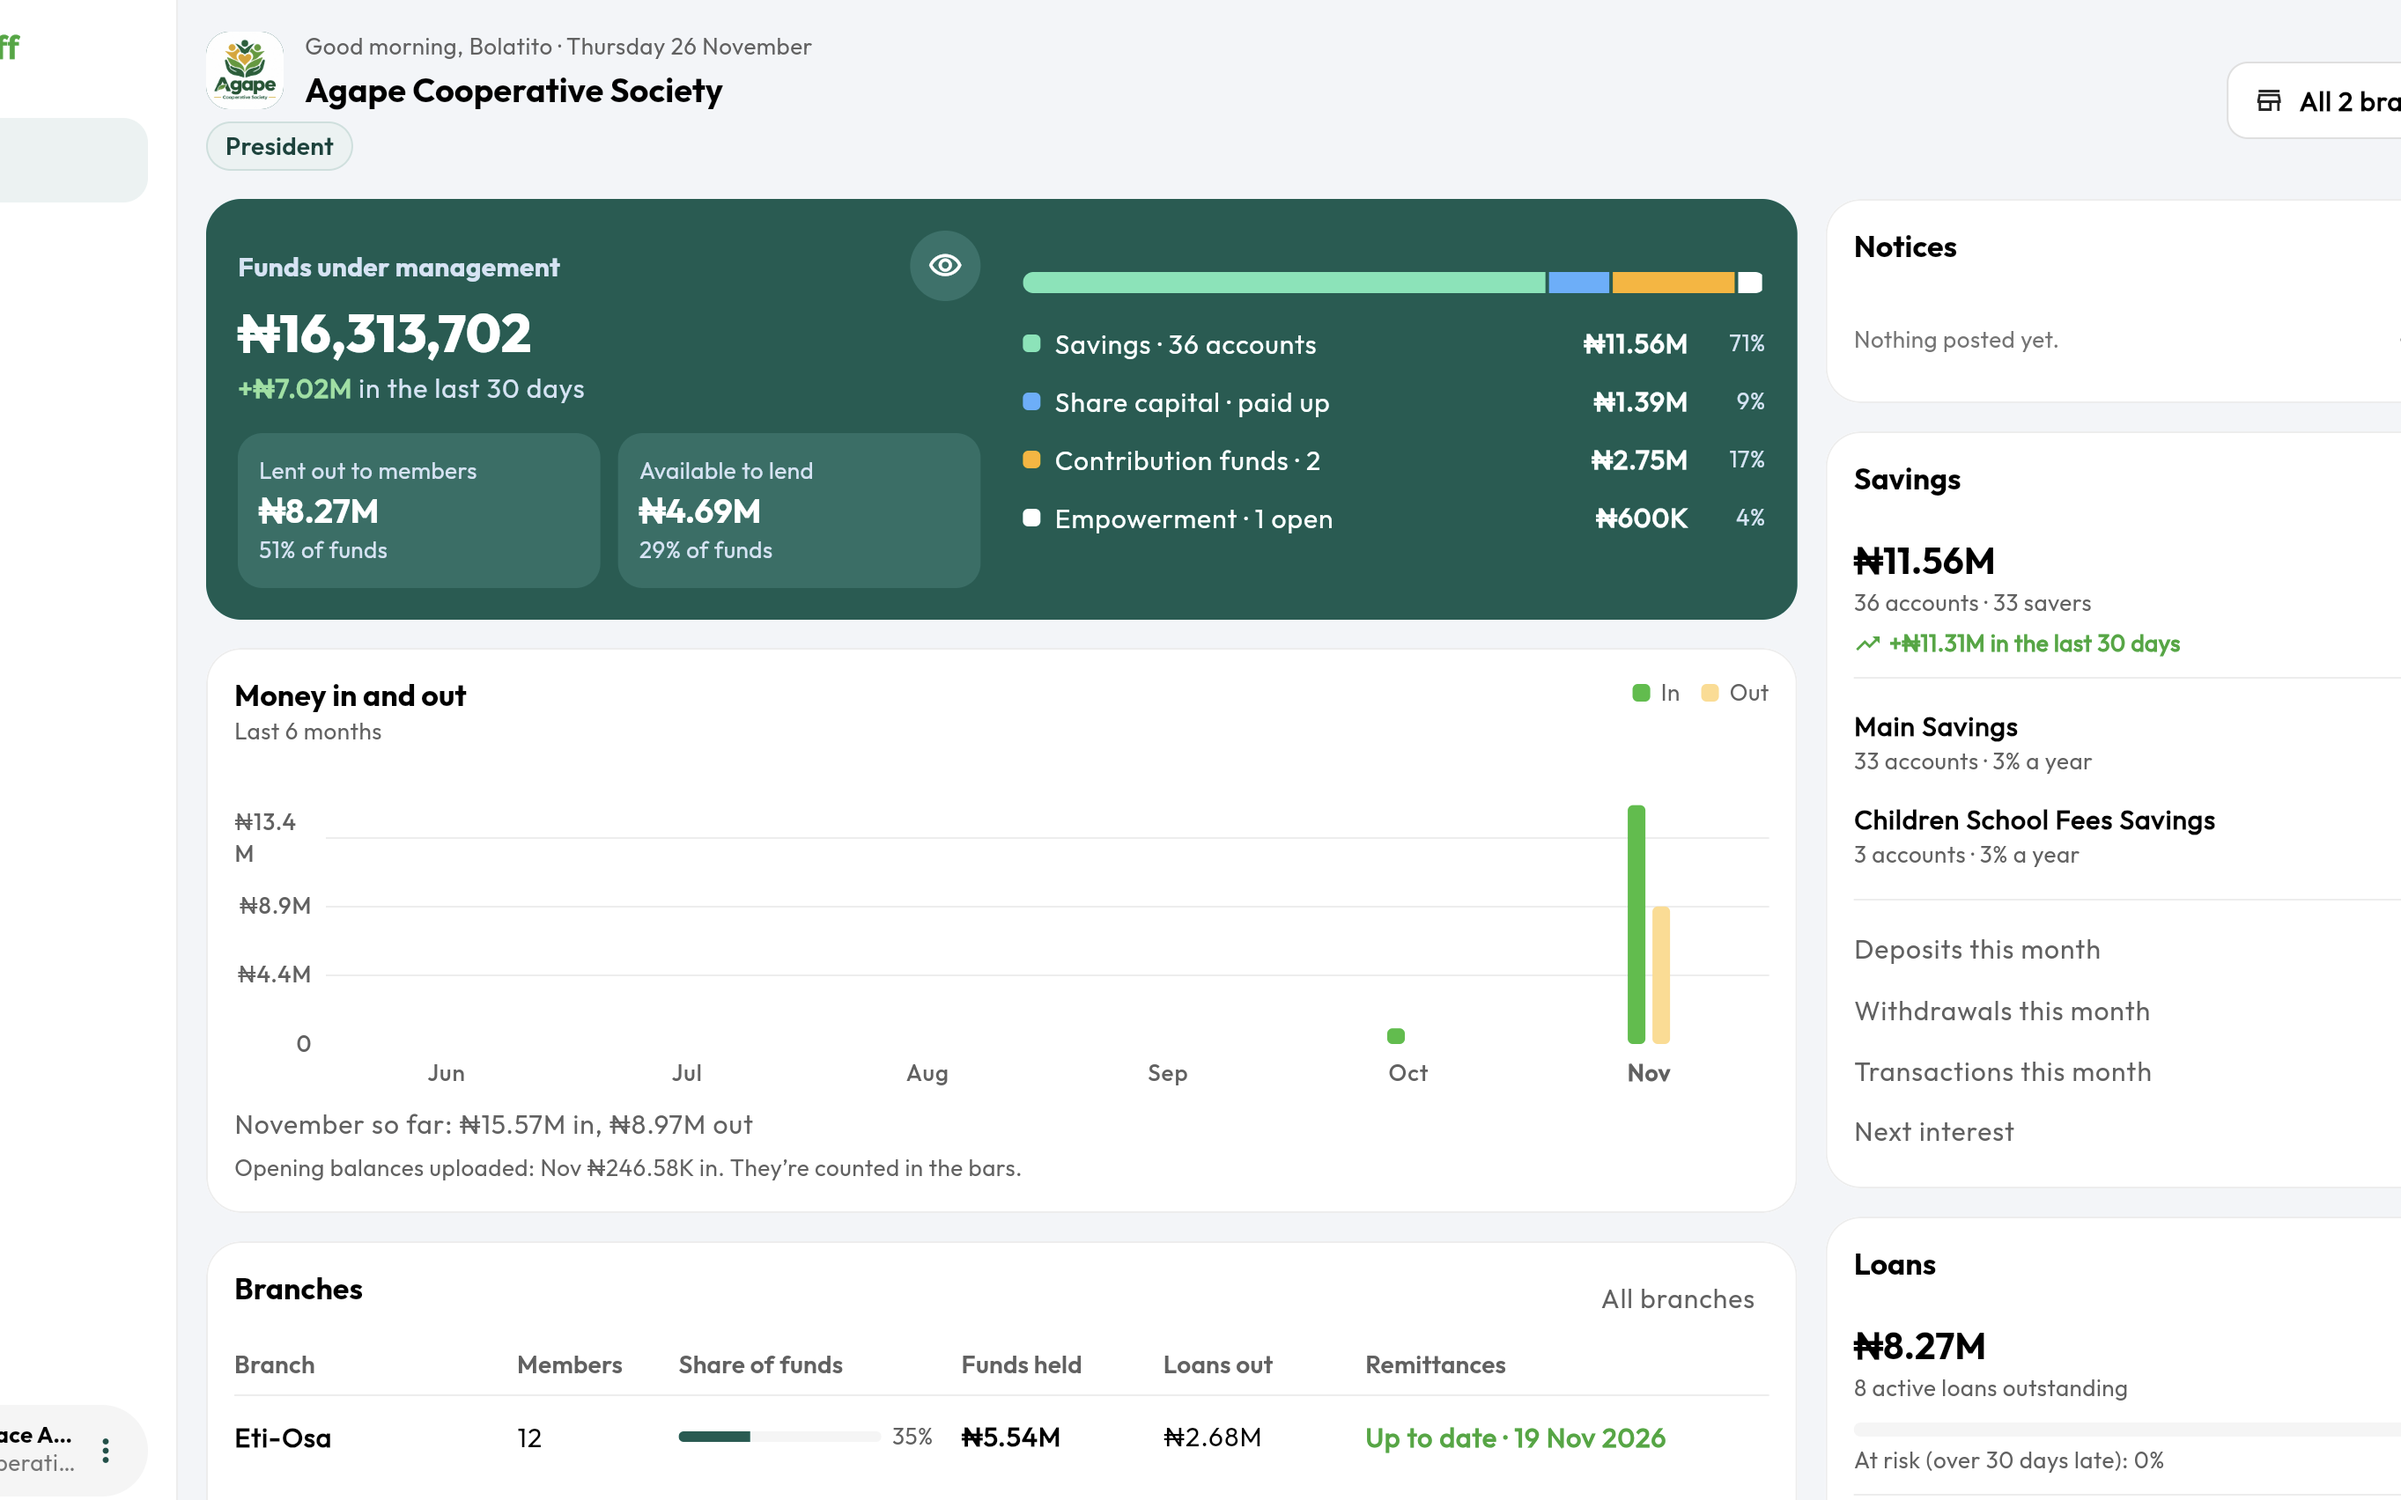
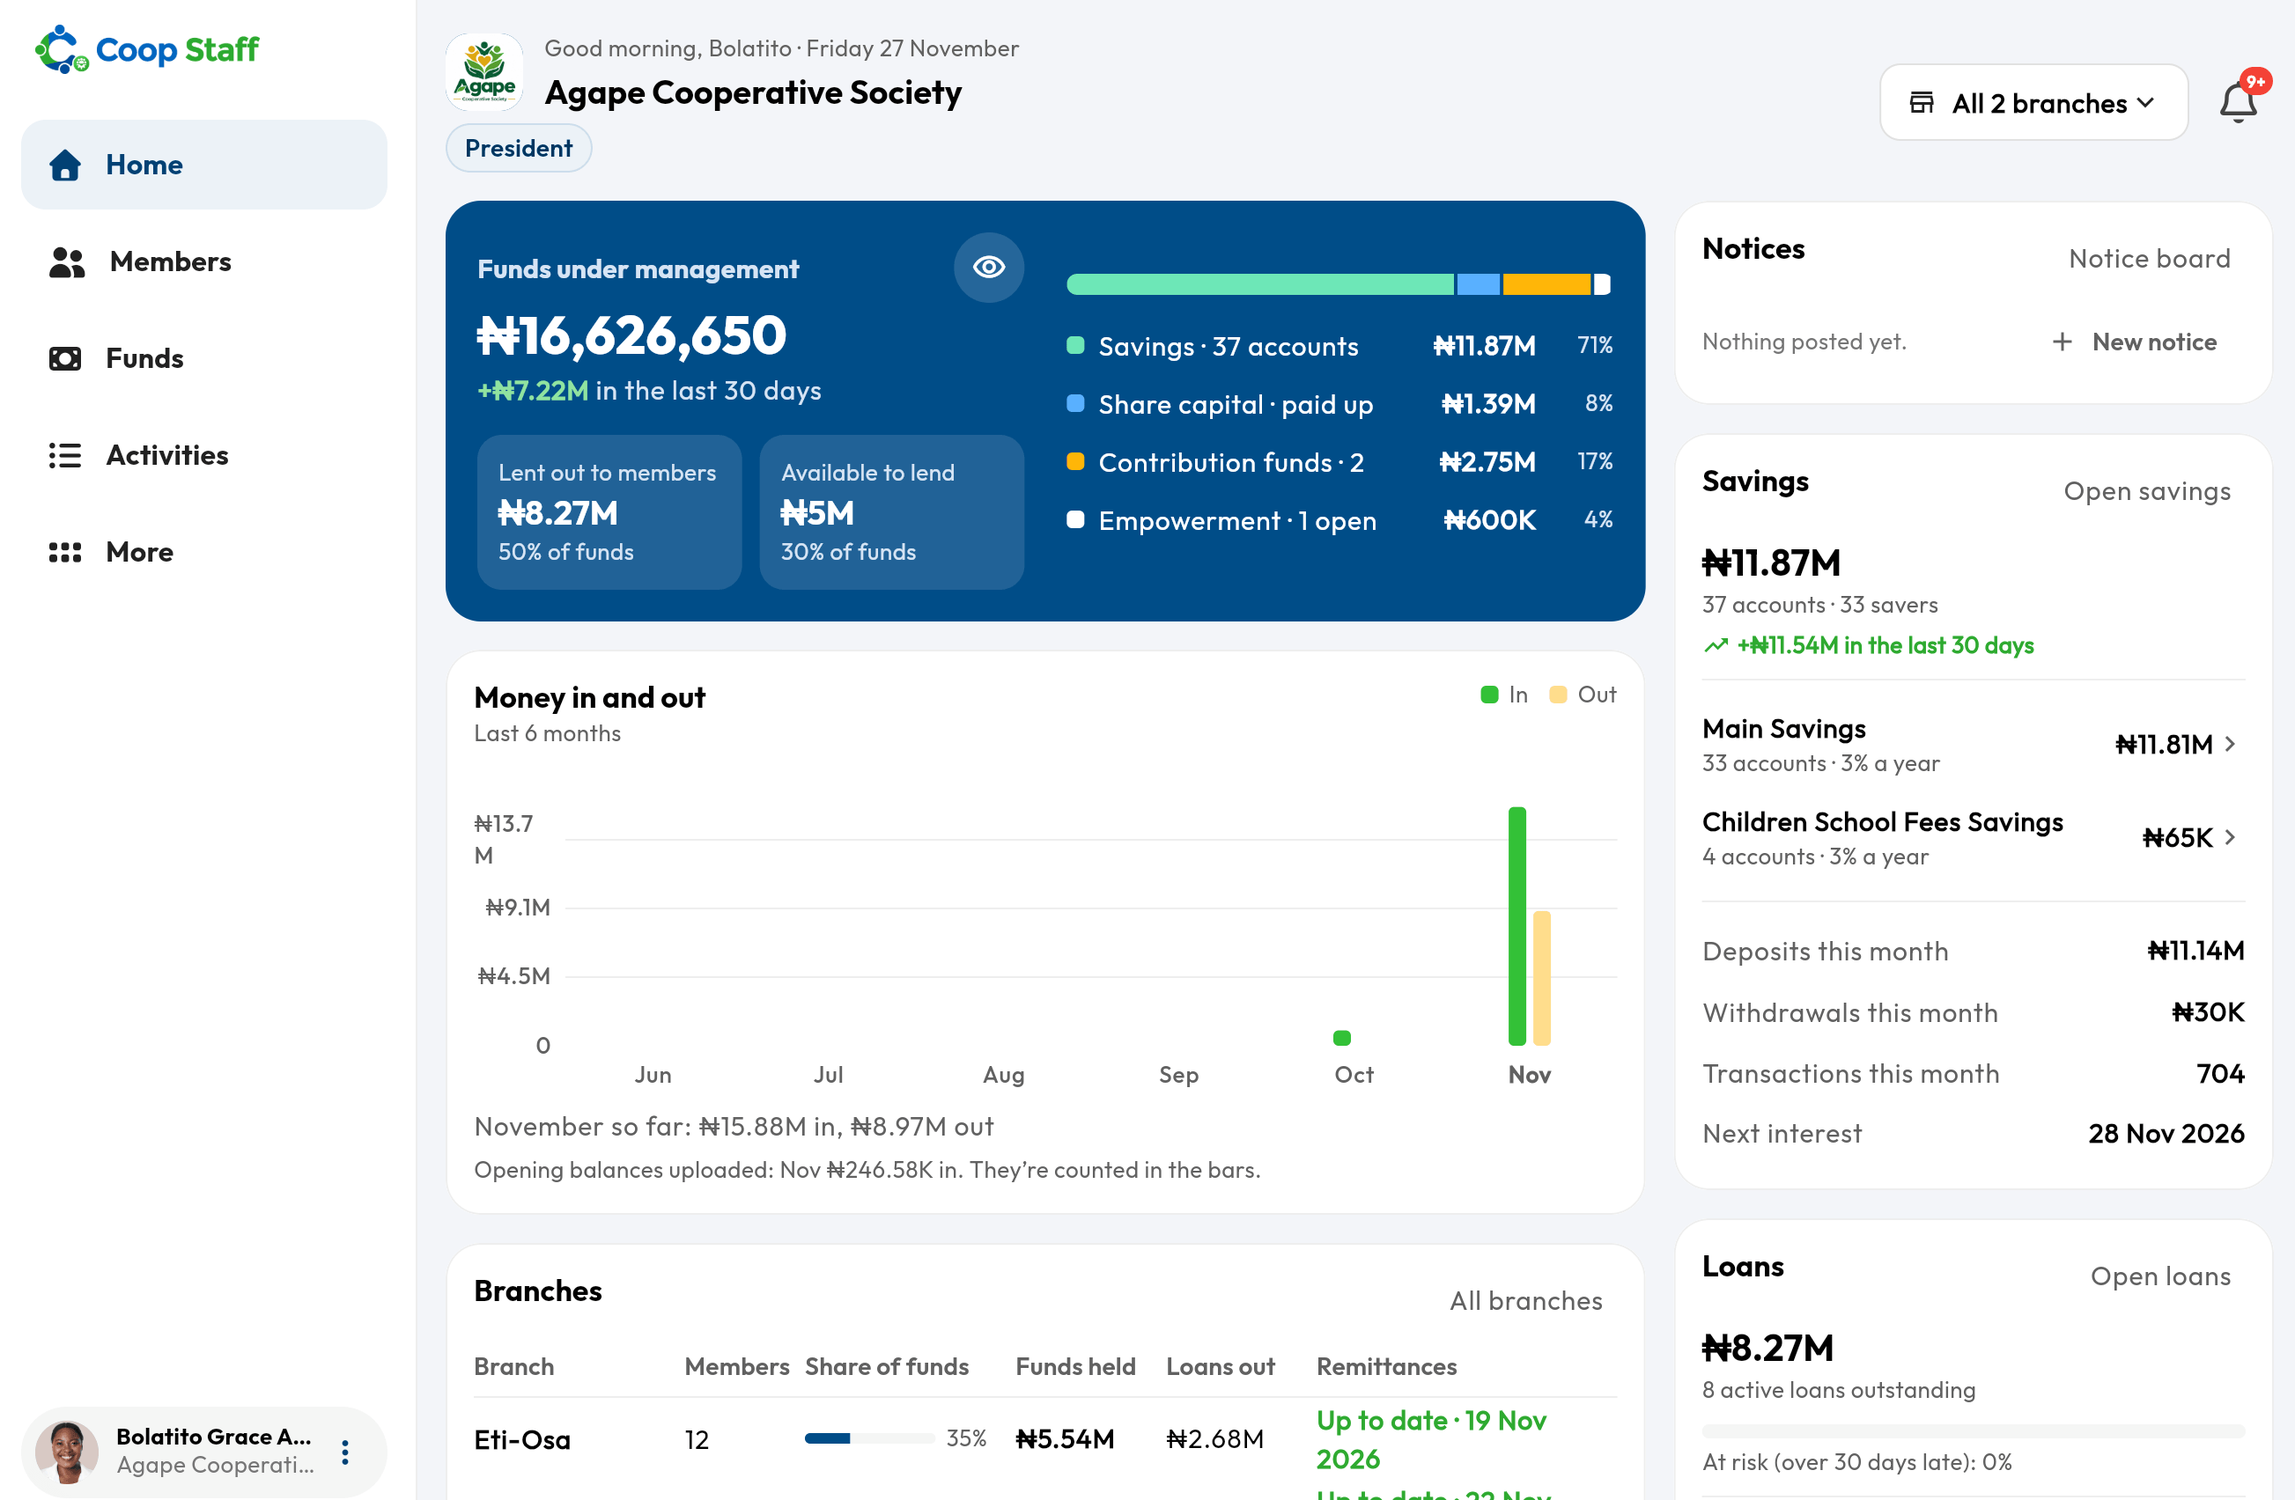
modified:   .DS_Store 	modified:   README.md 	modified:   functions/api/contact.js 	modified:   package-lock.json 	modified:   package.json 	modified:   src/_includes/partials/header.njk 	modified:   src/_includes/partials/visuals.njk 	modified:   src/assets/img/hero/member-home-phone.png 	new file:

diff --git a/functions/api/contact.js b/functions/api/contact.js
@@ -1,16 +1,22 @@
 // POST /api/contact — the website's contact form (Cloudflare Pages Function).
 //
-// Checks the fields and the Turnstile token, then emails the message with
-// Resend to CONTACT_TO, with Reply-To set to the sender. Nothing is stored.
+// Checks the fields and the Turnstile token, then sends the message with
+// Amazon SES (API v2, SendEmail with Simple content) to CONTACT_TO, BCCs the
+// two addresses below, and sets Reply-To to the sender. Nothing is stored.
 //
 // Environment (Cloudflare Pages → Settings → Variables and secrets):
-//   RESEND_API_KEY        secret; Resend API key
-//   CONTACT_TO            the inbox that receives messages
-//   CONTACT_FROM          a sender on a domain verified in Resend,
-//                         e.g. "CoopCircle website <website@coopcirclehq.com>"
-//   TURNSTILE_SECRET_KEY  secret; when set, a valid Turnstile token is required
-//
-// (Resend for now; Amazon SES later — see the app's docs/11 → Deferred work.)
+//   AWS_SES_ACCESS_KEY_ID      secret; IAM user allowed only ses:SendEmail
+//   AWS_SES_SECRET_ACCESS_KEY  secret; that user's access key
+//   AWS_SES_REGION             region of the verified coopcirclehq.com identity
+//   SES_CONFIGURATION_SET      optional; for bounce and complaint tracking
+//   CONTACT_TO                 the inbox that receives messages
+//   CONTACT_FROM               e.g. "CoopCircle website <website@coopcirclehq.com>"
+//   TURNSTILE_SECRET_KEY       secret; when set, a valid Turnstile token is required
+
+import { AwsClient } from "aws4fetch";
+
+// The addresses that also get a copy, without being shown to other recipients.
+const CONTACT_BCC = ["babatundeaniyi@gmail.com", "coopcirclesoftware@gmail.com"];
 
 const TOPICS = {
   demo: "Book a demo",
@@ -67,7 +73,11 @@ export async function onRequestPost({ request, env }) {
     if (!passed) return reply(403, "Please complete the check that you’re not a robot, then send again.");
   }
 
-  if (!env.RESEND_API_KEY || !env.CONTACT_TO || !env.CONTACT_FROM) {
+  // Without SES set up, the form stays honest and asks people to email us.
+  if (
+    !env.AWS_SES_ACCESS_KEY_ID || !env.AWS_SES_SECRET_ACCESS_KEY || !env.AWS_SES_REGION ||
+    !env.CONTACT_TO || !env.CONTACT_FROM
+  ) {
     return reply(503, "Our contact form isn’t working right now. Please email us instead.");
   }
 
@@ -126,23 +136,51 @@ async function turnstileOk(secret, token, request) {
   }
 }
 
+/**
+ * Sends one message through SES v2. Simple content is enough here: there are
+ * no attachments, and SES turns the UTF-8 subject and text into the email.
+ * Returns true only when SES accepts the message.
+ */
 async function sendEmail(env, f) {
+  const region = env.AWS_SES_REGION;
+
+  // A fresh client per request; retries are off so a slow failure can't
+  // deliver the same contact message twice.
+  const ses = new AwsClient({
+    accessKeyId: env.AWS_SES_ACCESS_KEY_ID,
+    secretAccessKey: env.AWS_SES_SECRET_ACCESS_KEY,
+    region,
+    service: "ses",
+    retries: 0,
+  });
+
+  const payload = {
+    FromEmailAddress: env.CONTACT_FROM,
+    Destination: { ToAddresses: [env.CONTACT_TO], BccAddresses: CONTACT_BCC },
+    ReplyToAddresses: [f.email], // clean() has already flattened any line breaks.
+    Content: {
+      Simple: {
+        Subject: {
+          Data: `${TOPICS[f.topic]}: ${f.name}${f.society ? ` (${f.society})` : ""}`.slice(0, 200),
+          Charset: "UTF-8",
+        },
+        Body: { Text: { Data: emailText(f), Charset: "UTF-8" } },
+      },
+    },
+  };
+  // Optional SES configuration set, used for bounce and complaint tracking.
+  if (env.SES_CONFIGURATION_SET) payload.ConfigurationSetName = env.SES_CONFIGURATION_SET;
+
   try {
-    const res = await fetch("https://api.resend.com/emails", {
+    const res = await ses.fetch(`https://email.${region}.amazonaws.com/v2/email/outbound-emails`, {
       method: "POST",
-      headers: { Authorization: `Bearer ${env.RESEND_API_KEY}`, "Content-Type": "application/json" },
-      body: JSON.stringify({
-        from: env.CONTACT_FROM,
-        to: [env.CONTACT_TO],
-        reply_to: f.email,
-        subject: `${TOPICS[f.topic]}: ${f.name}${f.society ? ` (${f.society})` : ""}`.slice(0, 200),
-        text: emailText(f),
-      }),
+      headers: { "content-type": "application/json; charset=utf-8" },
+      body: JSON.stringify(payload),
     });
-    if (!res.ok) console.error("contact: Resend answered", res.status);
+    if (!res.ok) console.error("contact: SES answered", res.status);
     return res.ok;
   } catch (e) {
-    console.error("contact: Resend failed", e && e.name);
+    console.error("contact: SES failed", e && e.name);
     return false;
   }
 }

diff --git a/src/assets/scss/_base.scss b/src/assets/scss/_base.scss
@@ -139,16 +139,16 @@ p {
   --bs-btn-hover-border-color: #{$ink};
 }
 
-// Green with dark text: readable at every size.
+// Green with white text: readable at every size.
 .btn-accent {
   --bs-btn-bg: #{$green};
   --bs-btn-border-color: #{$green};
-  --bs-btn-color: #{$ink};
+  --bs-btn-color: #fff;
   --bs-btn-hover-bg: #5cc45e;
   --bs-btn-hover-border-color: #5cc45e;
-  --bs-btn-hover-color: #{$ink};
+  --bs-btn-hover-color: #fff;
   --bs-btn-active-bg: #5cc45e;
-  --bs-btn-active-color: #{$ink};
+  --bs-btn-active-color: #fff;
 }
 
 // ── Sections ───────────────────────────────────────────────────────────────

diff --git a/src/assets/scss/_ui.scss b/src/assets/scss/_ui.scss
@@ -406,7 +406,7 @@
 
 .ui-phone.ui-phone-photo {
   --screen-left: 5.96%;
-  --screen-top: 7.2%;
+  --screen-top: 9.2%;
   --screen-width: 88.34%;
   --screen-height: 90.23%;
   padding: 0;
@@ -651,6 +651,10 @@
   border-radius: 2.25rem;
   padding: 1.75rem 0.875rem 1rem;
   box-shadow: $shadow-lg;
+}
+
+.ui-phone-member{
+  max-width: 250px;
 }
 
 .ui-success {

diff --git a/README.md b/README.md
@@ -181,11 +181,19 @@ One-time set-up in the Cloudflare dashboard:
    `https://coopcirclehq.com` with the path and query string kept.
 5. **Contact form** (the Pages project → Settings → Variables and secrets,
    for Production and Preview):
-   - `RESEND_API_KEY` (secret), `CONTACT_TO` (the inbox that receives
-     messages), `CONTACT_FROM` (e.g. `CoopCircle website
-     <website@coopcirclehq.com>`).
-   - The sending domain must be verified in Resend: add the records Resend
-     gives you in Cloudflare DNS, set to **DNS only**.
+   - `AWS_SES_ACCESS_KEY_ID` and `AWS_SES_SECRET_ACCESS_KEY` (both secrets),
+     from a dedicated IAM user `coopcircle-website-ses`. Give it an inline
+     policy allowing only `ses:SendEmail` on
+     `arn:aws:ses:<region>:<account>:identity/coopcirclehq.com`.
+   - `AWS_SES_REGION`, the region where `coopcirclehq.com` is verified in SES.
+     `SES_CONFIGURATION_SET` is optional, for bounce and complaint tracking.
+   - `CONTACT_TO` (`hello@coopcirclehq.com`) and `CONTACT_FROM`
+     (`CoopCircle website <website@coopcirclehq.com>`). The form BCCs
+     `babatundeaniyi@gmail.com` and `coopcirclesoftware@gmail.com`; those
+     addresses are in `functions/api/contact.js`.
+   - Delete `RESEND_API_KEY`. Verify `coopcirclehq.com` in SES instead of
+     Resend, and remove Resend's DNS records once a test message arrives. If
+     SES is still in the sandbox, `CONTACT_TO` must be a verified address too.
    - Turnstile: Turnstile → add a widget for `coopcirclehq.com`, then set
      `CF_TURNSTILE_SITE_KEY` (public, used at build time) and
      `TURNSTILE_SECRET_KEY` (secret), and deploy again. Without them the

diff --git a/src/help/members/pay-online.md b/src/help/members/pay-online.md
@@ -7,12 +7,17 @@ plan: "When your society takes payments in the app"
 app: "Coop Member"
 popular: true
 ---
-1. Find what you are paying for: **Save online** on a savings account, **Pay online** on a fund, loan or shares, or **Pay ₦… online** on a due.
+
+1. Find what you are paying for: **Pay online** on a savings account, fund, loan
+   or shares, or a due.
 2. Enter the amount.
-3. Check the **convenience fee** (a small fee for paying online) and the total you will pay.
+3. Check the **convenience fee** (a small fee for paying online) and the total
+   you will pay.
 4. Choose **Pay**. Paystack’s secure page opens.
 5. Pay with your card or bank, then come back to Coop Member.
 
-The payment goes straight into your society’s own bank account, and is added to what you paid for. You get a receipt in your notifications.
+The payment goes straight into your society’s own bank account, and is added to
+what you paid for. You get a receipt in your notifications.
 
-> If you don’t see the pay buttons, your society doesn’t take payments in the app yet. Pay at your branch as usual.
+> If you don’t see the pay buttons, your society doesn’t take payments in the
+> app yet. Pay at your branch as usual.
